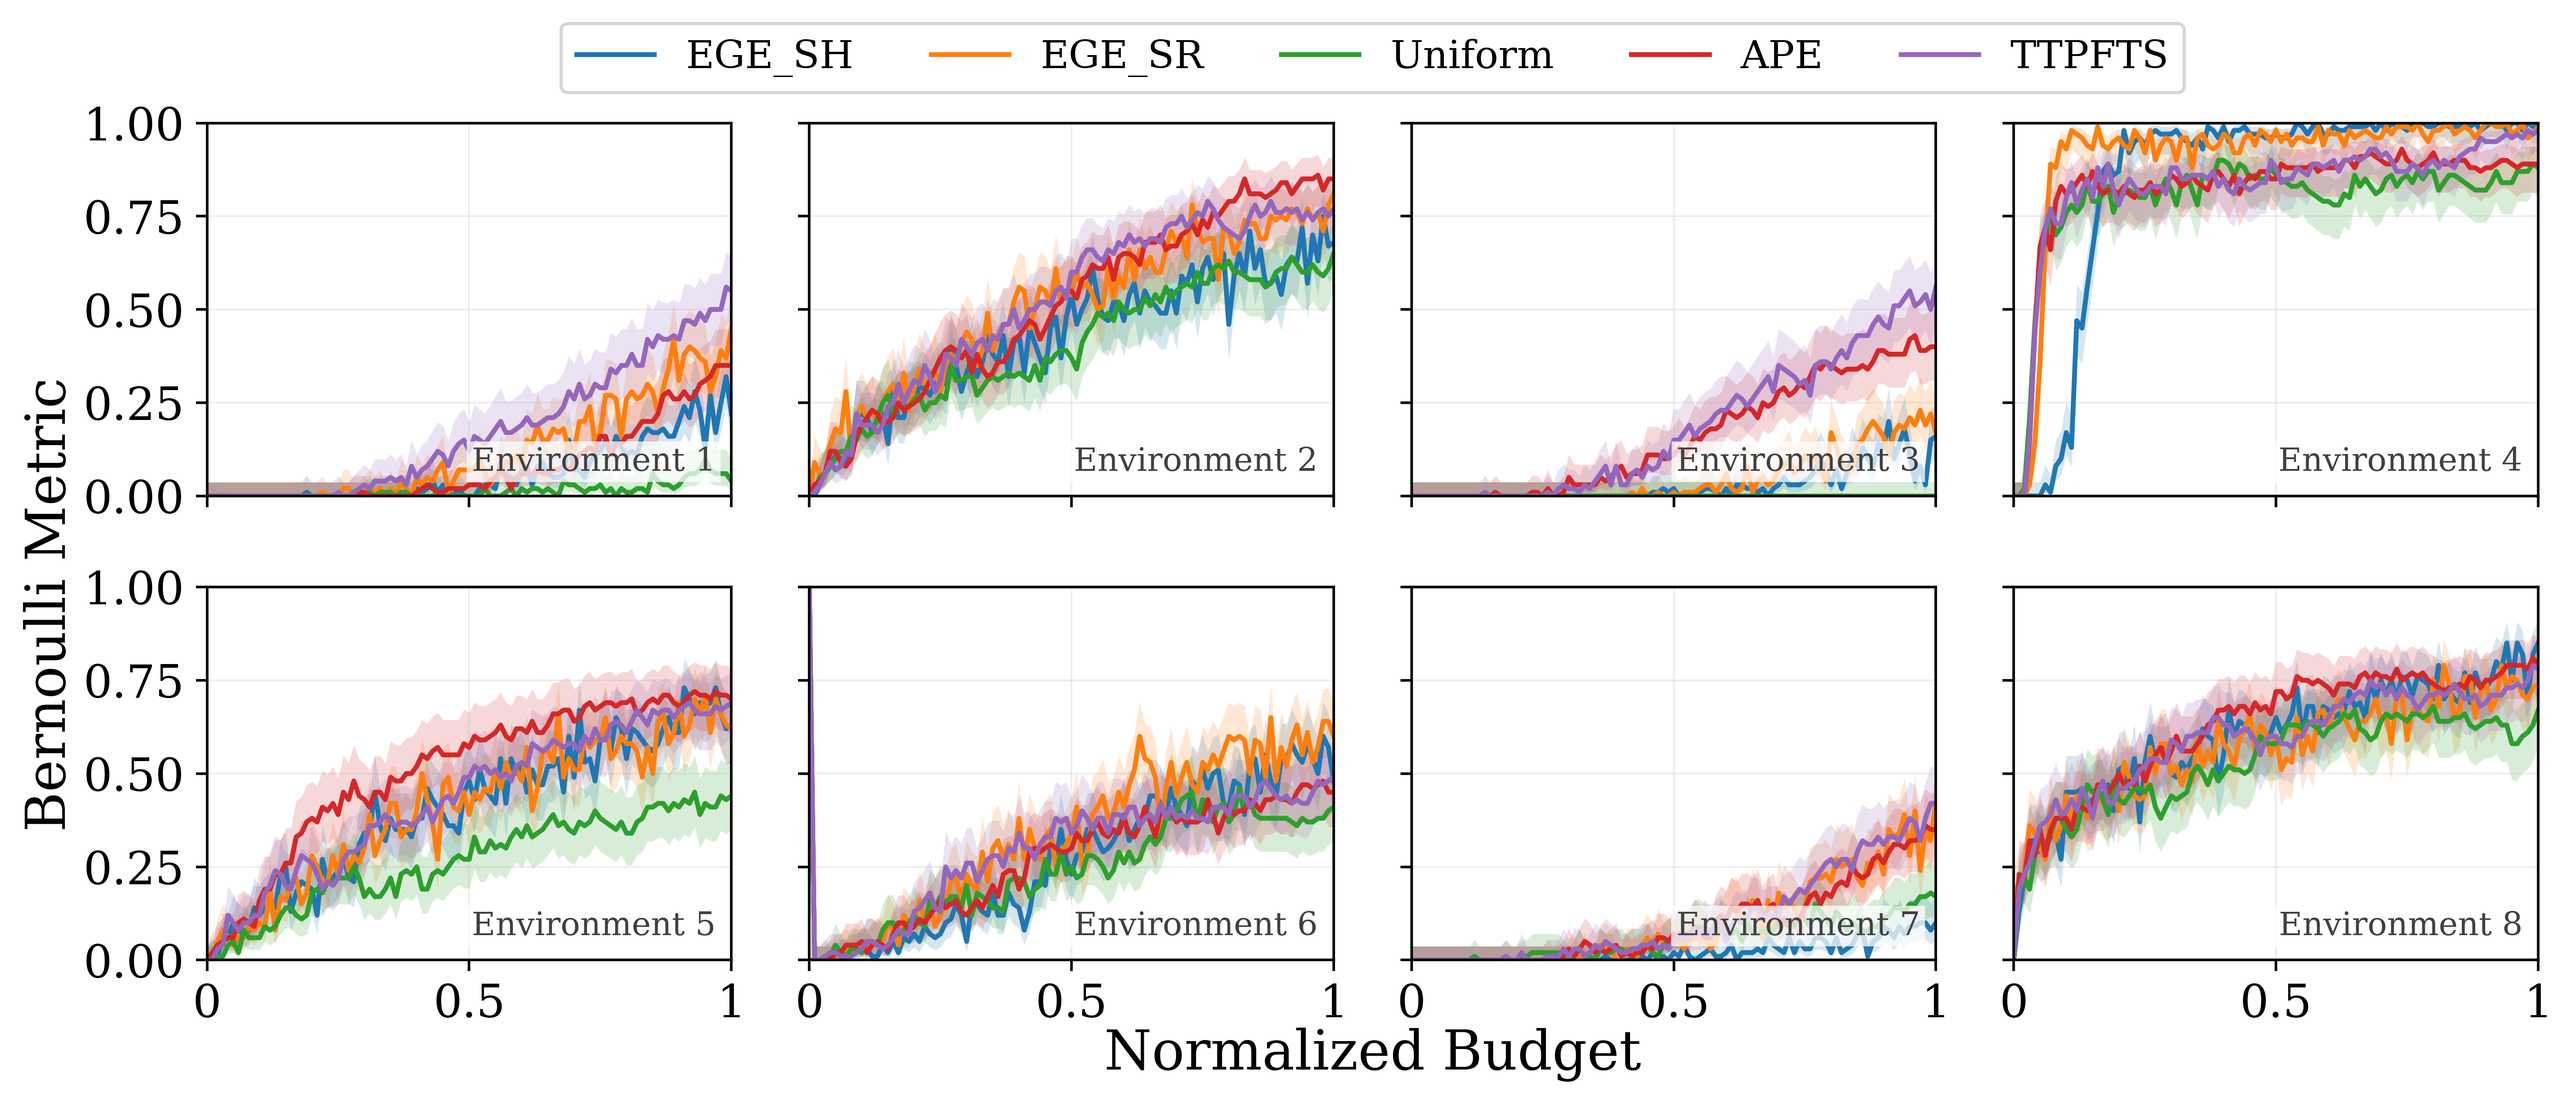
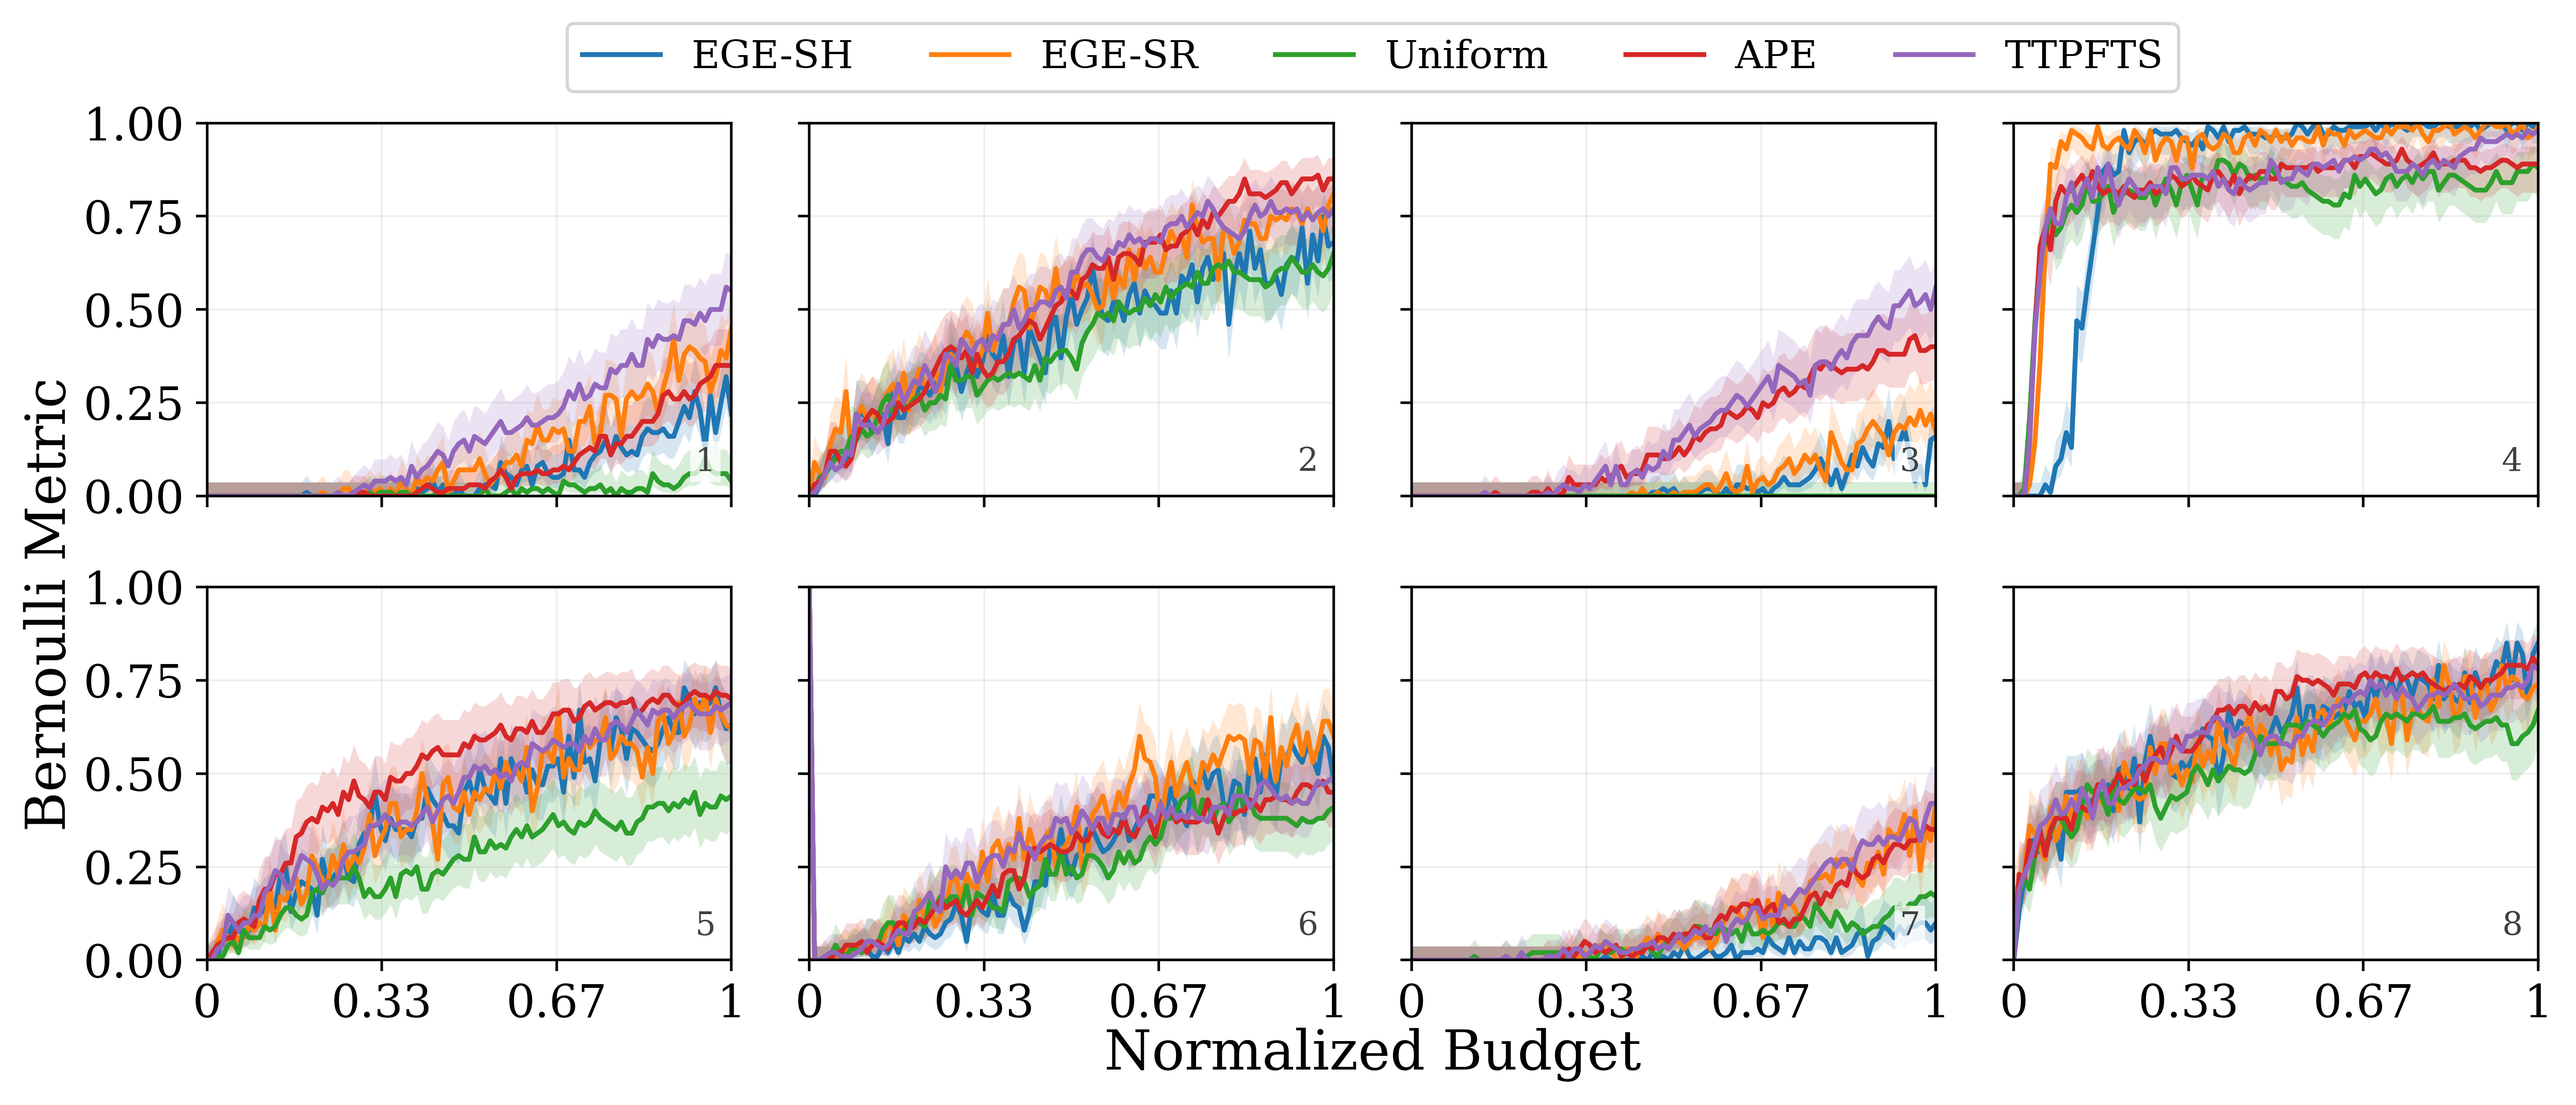
Polish publication plot labels and ticks
Use numeric subplot labels, hyphenate EGE-SH and EGE-SR, provide four compact normalized-budget ticks, and reduce misidentification log-scale y tick labels to 11pt. Preserve Environment 6's valid zero-budget baseline behavior.

diff --git a/test_plotting_regression.py b/test_plotting_regression.py
@@ -126,7 +126,11 @@ def _make_plot(metric="Jaccard"):
         manifest_path=manifest_path,
         figsize=(12, 6),
         exclude_algs={"TTPFTS_KNOWN_VAR"},
-        algorithm_display_labels={"TTPFTS_UNKNOWN_VAR": "TTPFTS"},
+        algorithm_display_labels={
+            "EGE_SH": "EGE-SH",
+            "EGE_SR": "EGE-SR",
+            "TTPFTS_UNKNOWN_VAR": "TTPFTS",
+        },
         log_misidentification=True,
         show=False,
     )
@@ -158,7 +162,7 @@ def test_shared_labels_and_legend_entries():
     check("legend relabels unknown-variance TTPFTS", "TTPFTS" in labels, str(labels))
     check("legend labels are distinct", len(set(labels)) == 5, str(labels))
     annotations = [text.get_text() for ax in axes.flat for text in ax.texts]
-    check("subplots have compact environment labels", annotations == [f"Environment {i}" for i in range(1, 9)],
+    check("subplots have compact environment labels", annotations == [str(i) for i in range(1, 9)],
           str(annotations))
     grid_center = (axes[0, 0].get_position().x0 + axes[0, -1].get_position().x1) / 2.0
     x_label = next(text for text in fig.texts if text.get_text() == "Normalized Budget")
@@ -185,6 +189,18 @@ def test_misidentification_log_scale_and_compact_x_ticks():
     tick_labels = [label.get_text() for label in axes[-1, 0].get_xticklabels() if label.get_text()]
     check("x ticks do not have redundant trailing zeros", all(not text.endswith(".00") for text in tick_labels),
           str(tick_labels))
+    check("each subplot has four x ticks", all(len(ax.get_xticks()) == 4 for ax in axes.flat))
+    check("x ticks use compact one-third labels", tick_labels == ["0", "0.33", "0.67", "1"],
+          str(tick_labels))
+    fig.canvas.draw()
+    y_tick_sizes = [
+        label.get_fontsize()
+        for ax in axes.flat
+        for label in ax.get_yticklabels()
+        if label.get_visible()
+    ]
+    check("misidentification y tick labels use 11pt font", all(size == 11 for size in y_tick_sizes),
+          str(y_tick_sizes))
     plt.close(fig)
 
 

diff --git a/plotting.py b/plotting.py
@@ -18,7 +18,7 @@ from typing import Mapping, Sequence
 import matplotlib.pyplot as plt
 import numpy as np
 import pandas as pd
-from matplotlib.ticker import FuncFormatter
+from matplotlib.ticker import FixedLocator, FuncFormatter
 
 try:
     from runner.schema import SCHEMA_COLUMNS
@@ -312,7 +312,7 @@ def _algorithm_label(name: str, format_legend_p: bool = False) -> str:
 def _environment_label(name: str) -> str:
     """Return the compact publication label for a named EgeExp environment."""
     match = re.fullmatch(r"EgeExp(\d+)", name)
-    return f"Environment {match.group(1)}" if match else name
+    return match.group(1) if match else name
 
 
 def plot_pfi_metric(file, num_runs=None, num_arm_pulls=None, metric="Jaccard", rolling_avg_window=1,
@@ -607,9 +607,13 @@ def plot_metric_all_envs_grid_top_legend(
                     raise AssertionError(f"{env_name} has no positive misidentification values for log plotting")
                 ax.set_yscale("log")
                 ax.set_ylim(bottom=float(positive.min()) / 2.0)
+                ax.tick_params(axis="y", labelsize=11)
             else:
                 ax.set_ylim(bottom=0)
-        ax.xaxis.set_major_formatter(FuncFormatter(lambda value, _: f"{value:g}"))
+        ax.xaxis.set_major_locator(FixedLocator(np.linspace(0.0, 1.0, 4)))
+        ax.xaxis.set_major_formatter(
+            FuncFormatter(lambda value, _: f"{value:.2f}".rstrip("0").rstrip("."))
+        )
         ax.grid(True, alpha=0.22, linewidth=0.55)
 
     for j in range(n_env, nrows * ncols):

diff --git a/plot_results_local.py b/plot_results_local.py
@@ -108,7 +108,11 @@ def main(argv: list[str] | None = None):
             manifest_path=str(manifest_path) if manifest_path else None,
             environment_budgets=budgets,
             exclude_algs={"TTPFTS_KNOWN_VAR"},
-            algorithm_display_labels={"TTPFTS_UNKNOWN_VAR": "TTPFTS"},
+            algorithm_display_labels={
+                "EGE_SH": "EGE-SH",
+                "EGE_SR": "EGE-SR",
+                "TTPFTS_UNKNOWN_VAR": "TTPFTS",
+            },
             log_misidentification=True,
             show=False,
         )
